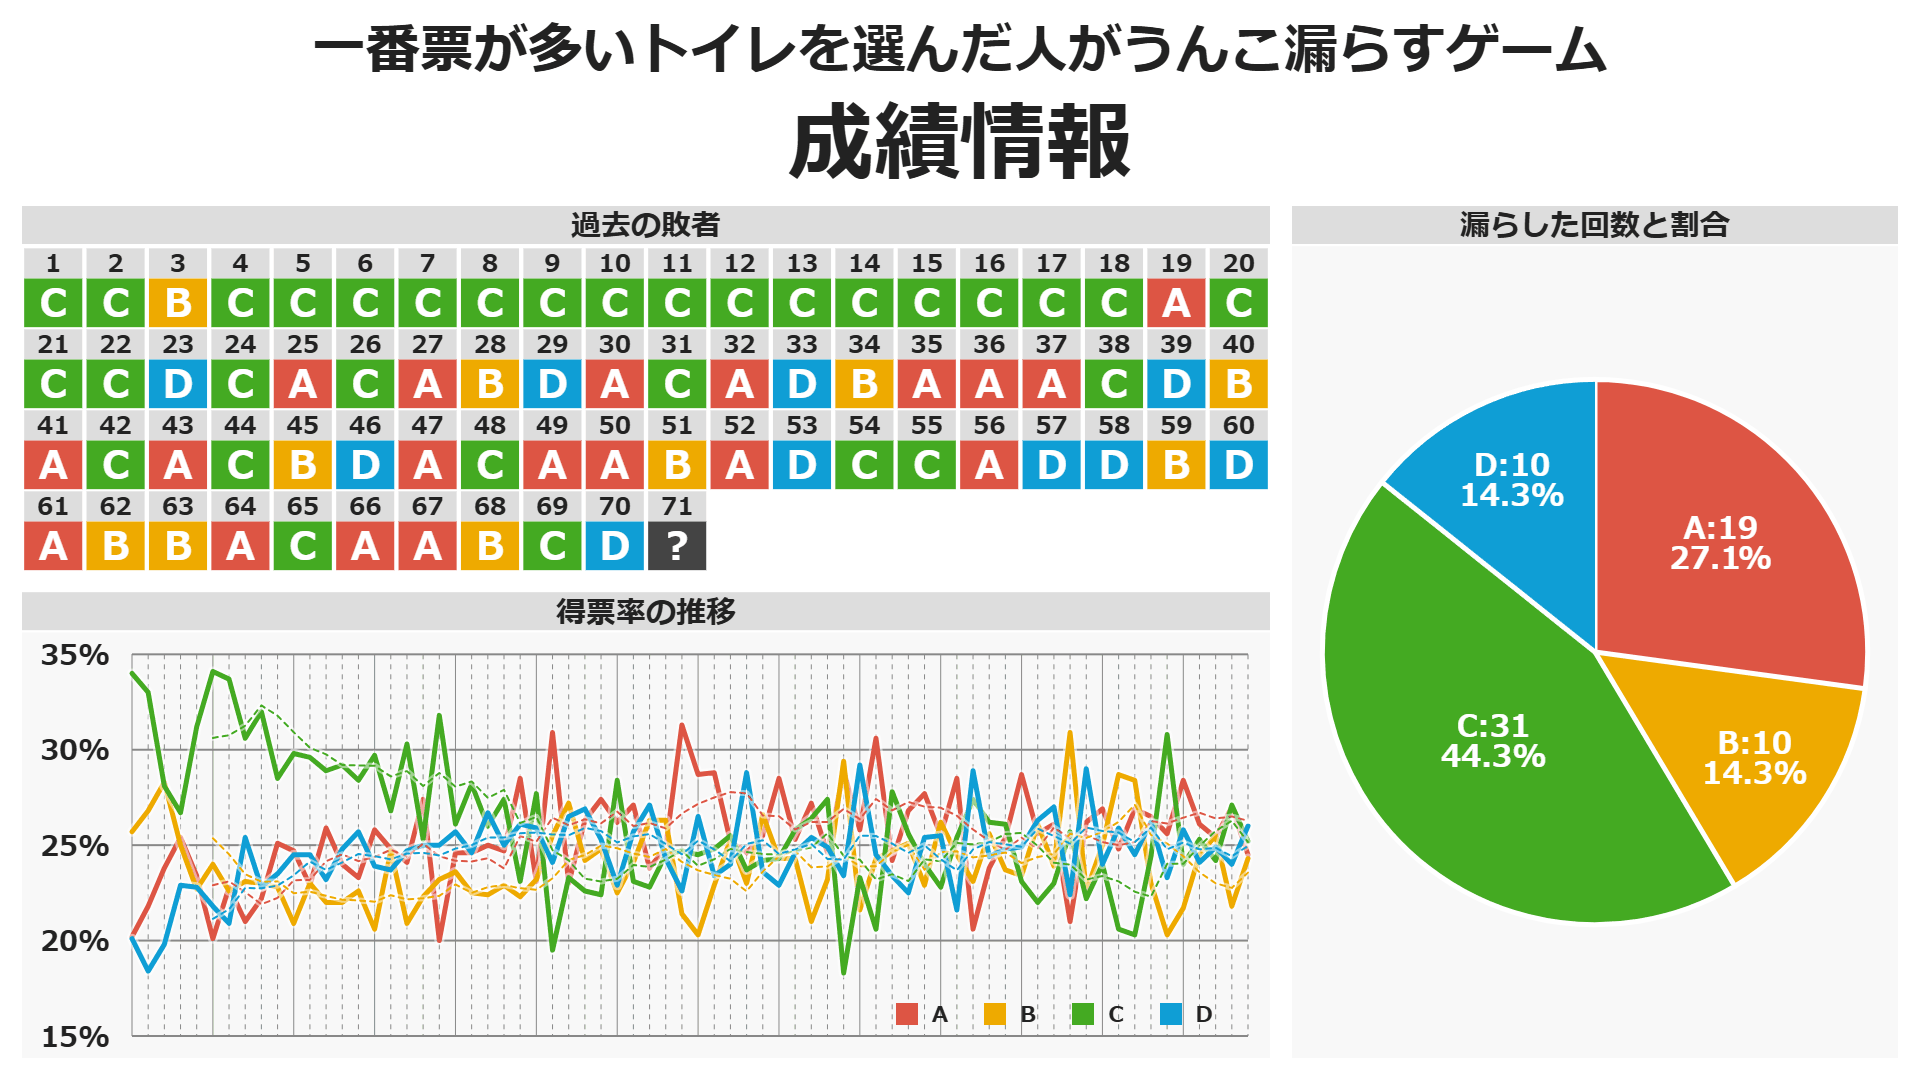
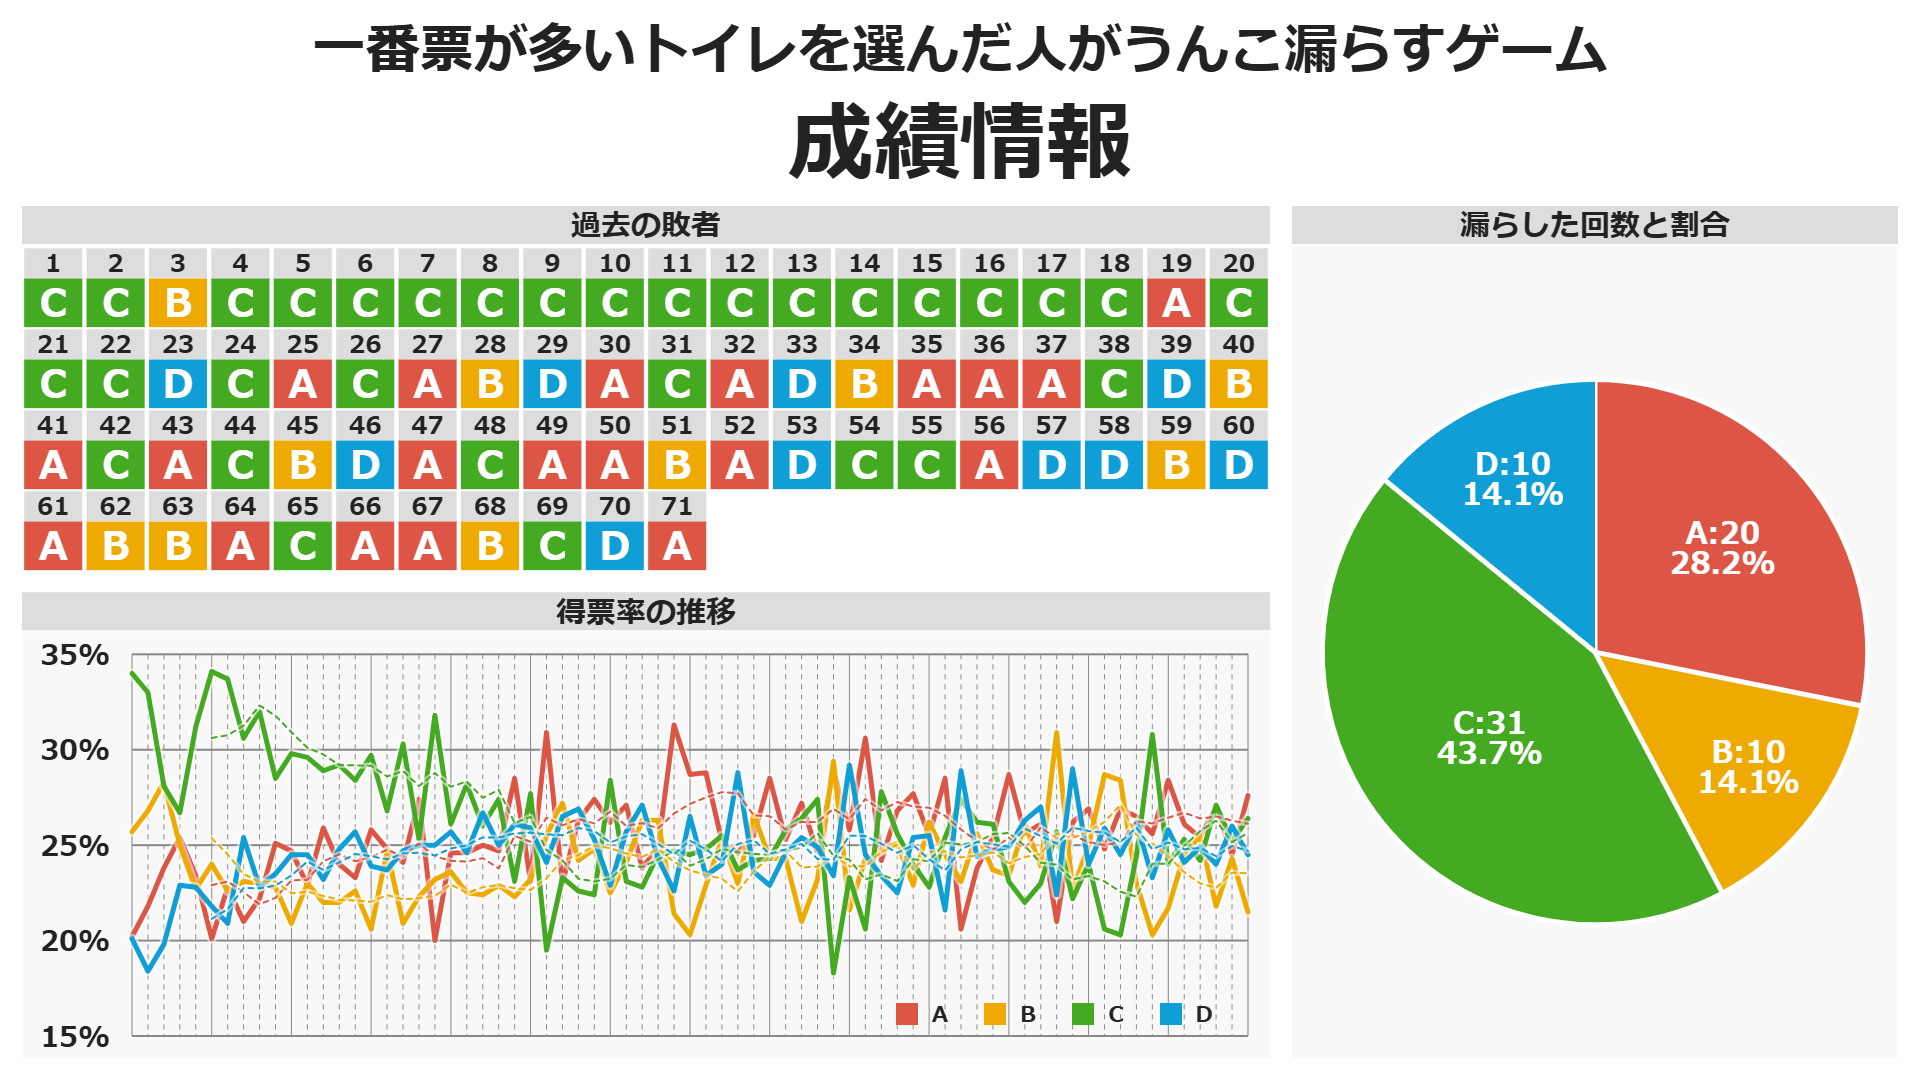
update

diff --git a/docs/index.html b/docs/index.html
@@ -12,7 +12,7 @@
     <meta property="og:url" content="https://shapoco.github.io/toilet-game/" />
     <meta property="og:title" content="4択トイレゲーム" />
     <meta property="og:description" content="一番票が多いトイレを選んだ人がうんこ漏らすゲーム" />
-    <meta property="og:image" content="https://shapoco.github.io/toilet-game/cover.png?20250329174600" />
+    <meta property="og:image" content="https://shapoco.github.io/toilet-game/cover.png?20250330180700" />
     
     <link rel="icon" href="https://shapoco.github.io/favicon192.png" sizes="192x192">
     <link rel="apple-touch-icon" href="https://shapoco.github.io/apple-touch-icon180.png" sizes="180x180">
@@ -36,8 +36,8 @@
     <style>
     </style>
     
-    <link rel="stylesheet" href="./style.css?20250329174600">
-    <script src="./toilet_game.js?20250329174600"></script>
+    <link rel="stylesheet" href="./style.css?20250330180700">
+    <script src="./toilet_game.js?20250330180700"></script>
 
     <title>4択トイレゲーム</title>
   </head>

diff --git a/docs/toilet_game.js b/docs/toilet_game.js
@@ -72,6 +72,6 @@ const DB = [
   { date: '2025-03-08', total: 650, percent: [25.4, 25.5, 24.2, 24.9], url: 'https://x.com/shapoco/status/1898235203837182202' },
   { date: '2025-03-15', total: 803, percent: [27, 21.8, 27.1, 24], url: 'https://x.com/shapoco/status/1900792176831066345' },
   { date: '2025-03-22', total: 646, percent: [24.5, 24.3, 25.2, 26], url: 'https://x.com/shapoco/status/1903311724322951640' },
-  { date: '2025-03-29', total: 0, percent: null, url: null },
+  { date: '2025-03-29', total: 526, percent: [27.6, 21.5, 26.4, 24.5], url: 'https://x.com/shapoco/status/1905905696165806572' },
   //{ date: '2025-xx-xx', total: 0, percent: null, url: null },
 ];

diff --git a/docs/work.html b/docs/work.html
@@ -33,8 +33,8 @@
       }
     </script>
 
-    <link rel="stylesheet" href="./style.css?20250329174600">
-    <script src="./toilet_game.js?20250329174600"></script>
+    <link rel="stylesheet" href="./style.css?20250330180700">
+    <script src="./toilet_game.js?20250330180700"></script>
 
     <title>4択トイレゲーム</title>
   </head>
